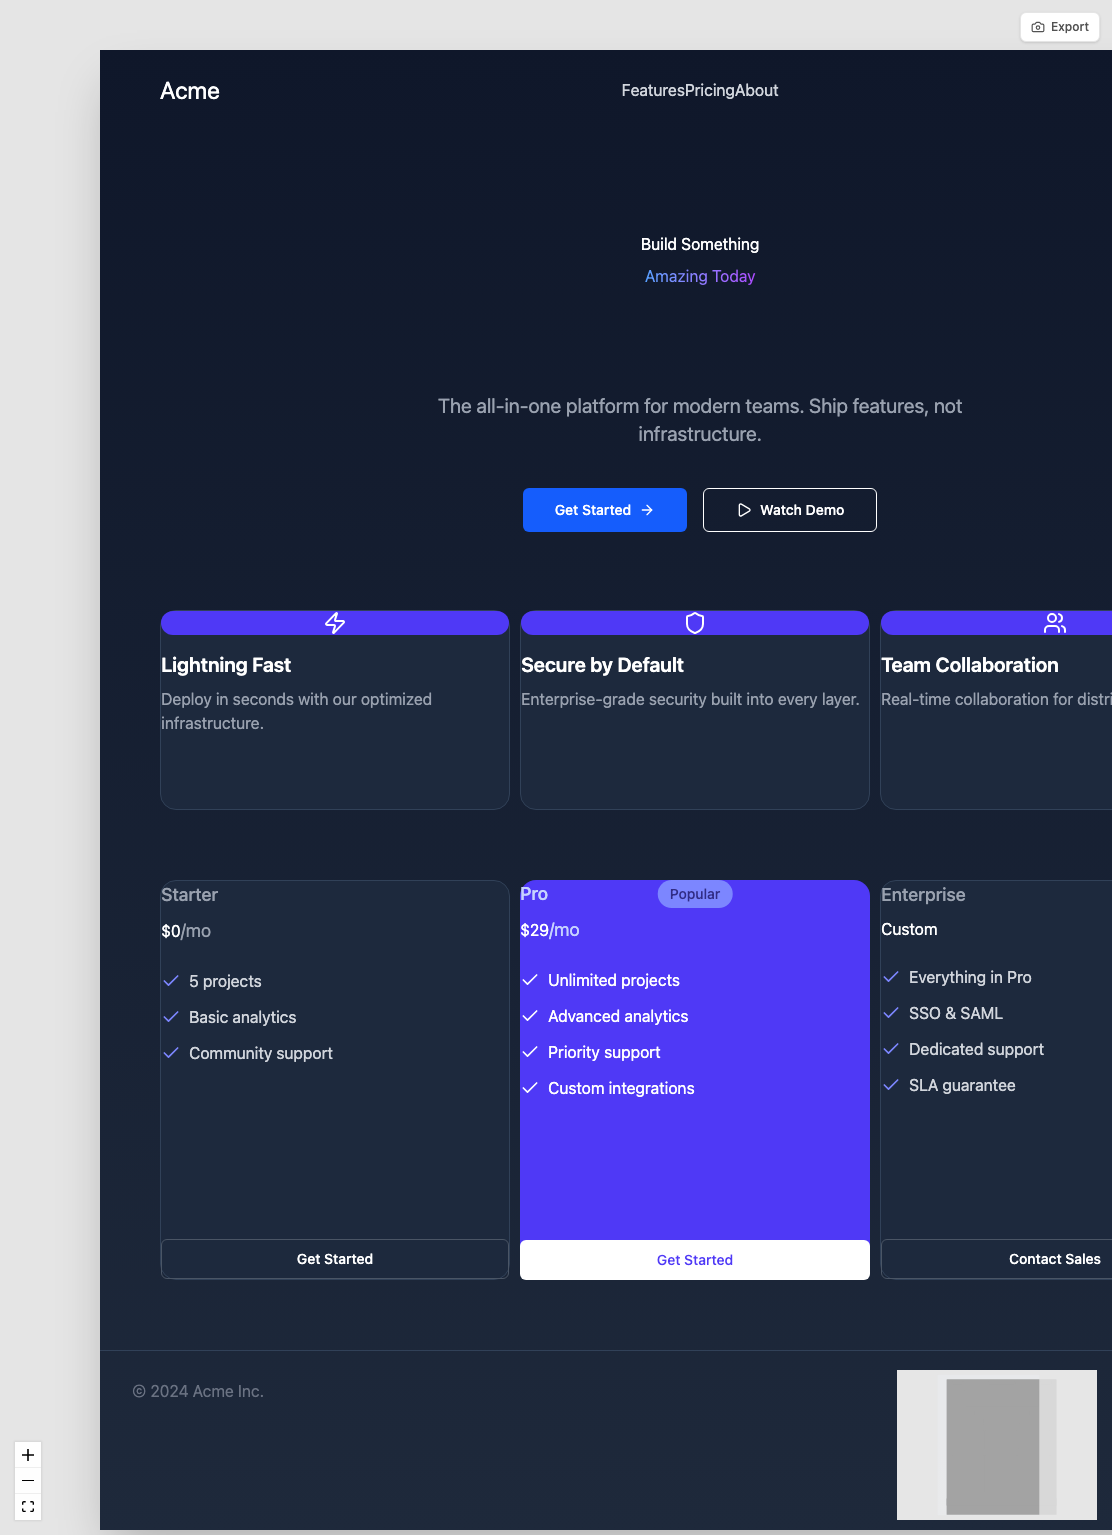
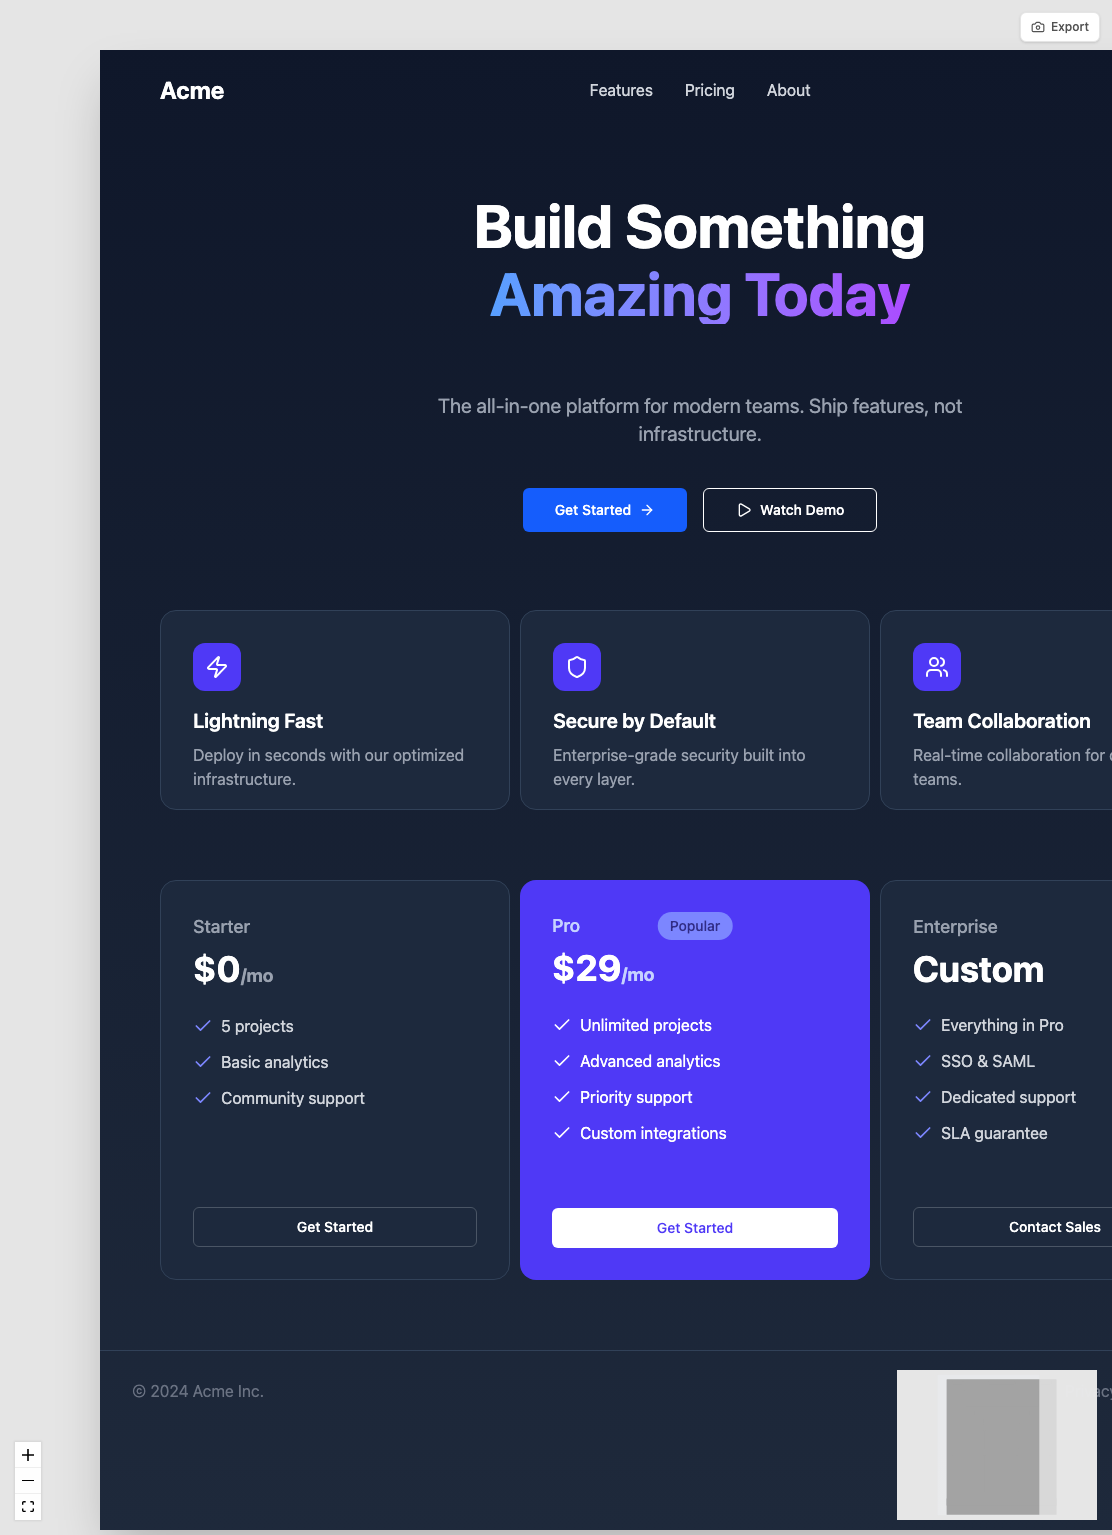
make sure all CSS gets passed through

diff --git a/client/src/index.css b/client/src/index.css
@@ -13,6 +13,19 @@
 @source inline("bg-gradient-to-{r,l,t,b,tr,tl,br,bl}");
 @source inline("bg-clip-text text-transparent");
 
+/* Safelist sizing classes that might not be detected from external paths */
+@source inline("w-{1,2,3,4,5,6,8,10,12,14,16,20,24,32,40,48,56,64,72,80,96}");
+@source inline("h-{1,2,3,4,5,6,8,10,12,14,16,20,24,32,40,48,56,64,72,80,96}");
+@source inline("w-full h-full w-auto h-auto");
+@source inline("p-{1,2,3,4,5,6,8,10,12,16,20,24} px-{1,2,3,4,5,6,8,10,12,16,20,24} py-{1,2,3,4,5,6,8,10,12,16,20,24}");
+@source inline("m-{1,2,3,4,5,6,8,10,12,16,20,24} mx-{1,2,3,4,5,6,8,10,12,16,20,24} my-{1,2,3,4,5,6,8,10,12,16,20,24}");
+@source inline("mb-{1,2,3,4,5,6,8,10,12,16,20,24} mt-{1,2,3,4,5,6,8,10,12,16,20,24}");
+@source inline("rounded rounded-{sm,md,lg,xl,2xl,3xl,full}");
+@source inline("flex flex-col flex-row items-{start,center,end,stretch} justify-{start,center,end,between,around,evenly}");
+@source inline("gap-{1,2,3,4,5,6,8,10,12,16,20,24}");
+@source inline("text-{xs,sm,base,lg,xl,2xl,3xl,4xl,5xl,6xl}");
+@source inline("font-{normal,medium,semibold,bold}");
+
 /* shadcn/ui CSS variables */
 :root {
   --background: 0 0% 100%;
